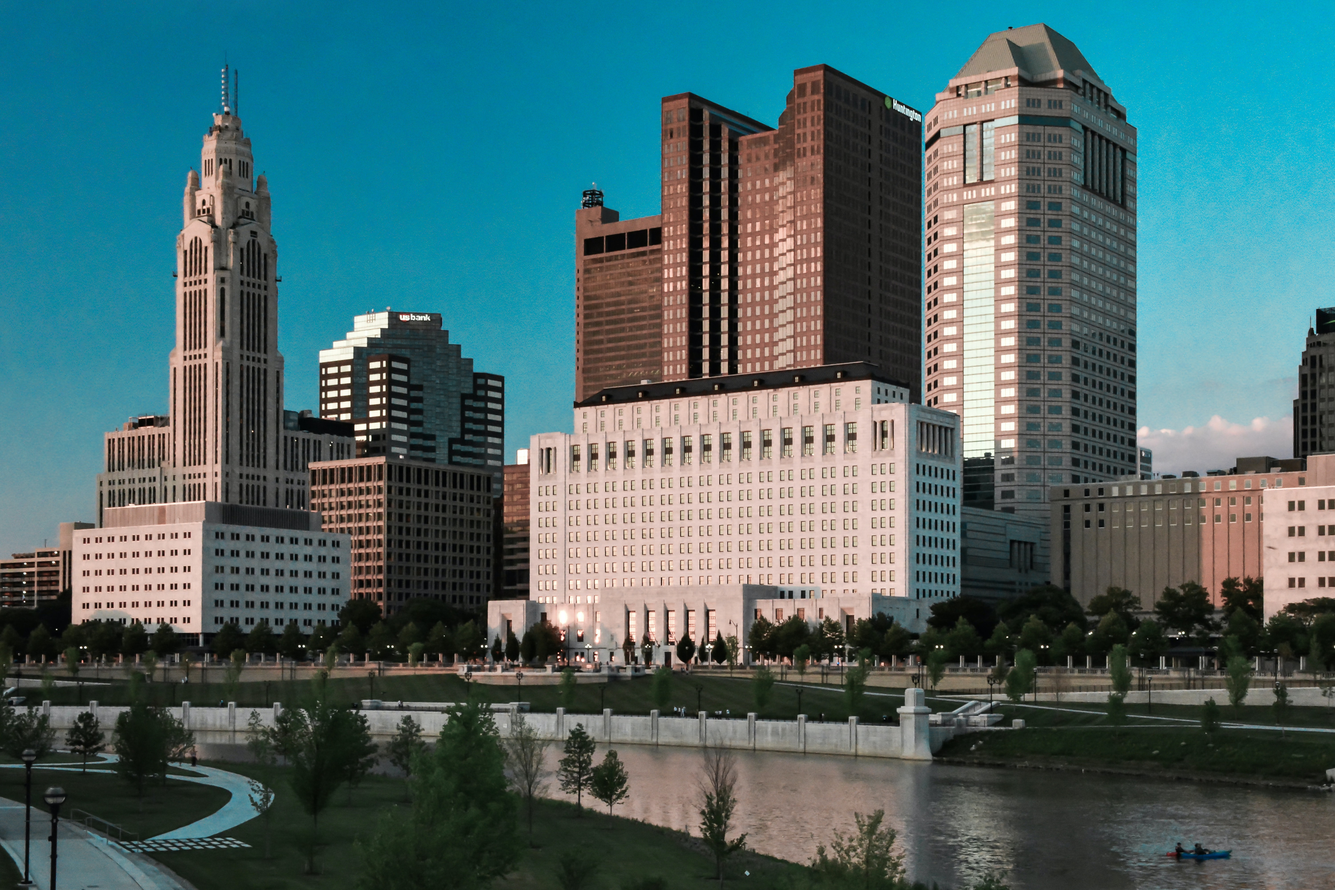
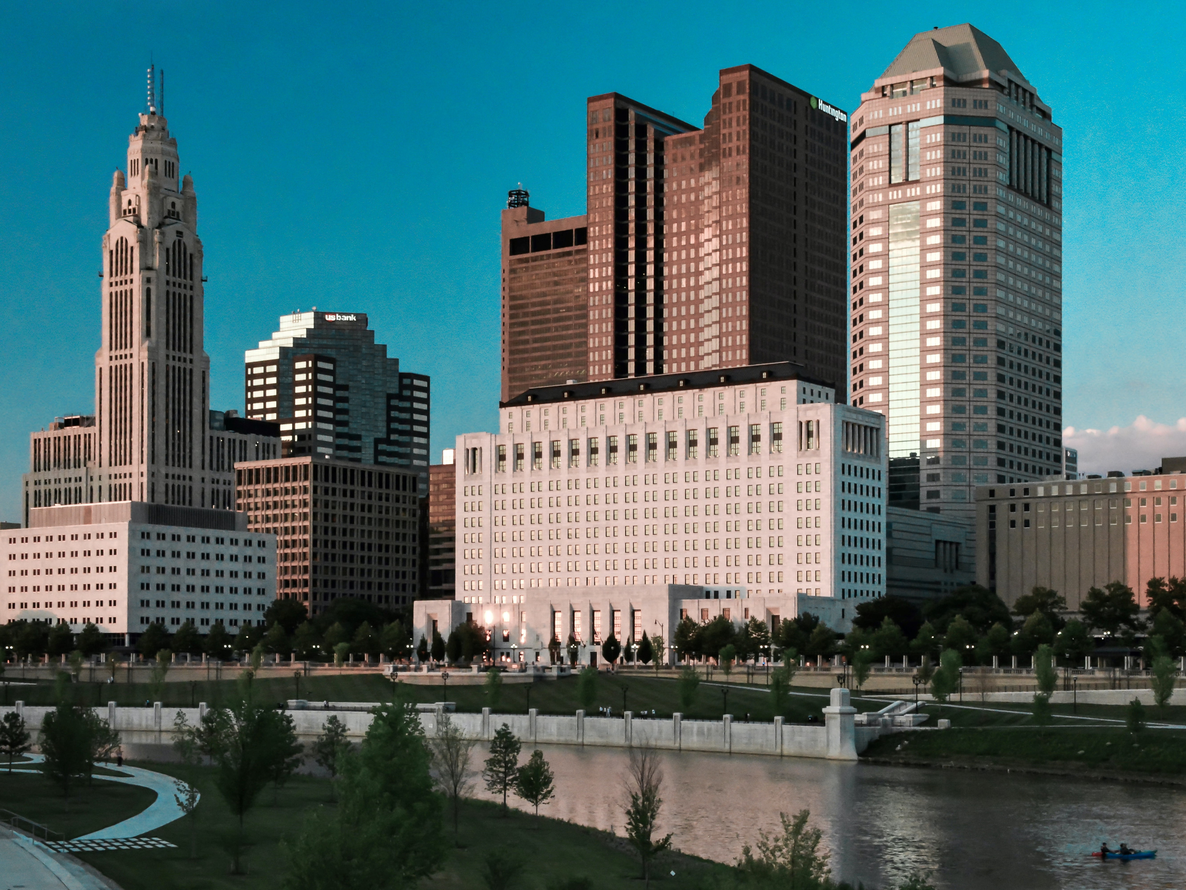
Added cities and changed styling

diff --git a/src/main/resources/templates/SubHash.html b/src/main/resources/templates/SubHash.html
@@ -5,21 +5,28 @@
     <meta name="viewport" content="width=device-width, initial-scale=1.0">
     <meta http-equiv="X-UA-Compatible" content="ie=edge">
     <link rel="stylesheet" href="/css/nav.css">
-    <link rel="stylesheet" href="/src/main/resources/templates/css/hashtagLayout.css">
-    <link rel="stylesheet" href="/src/main/resources/templates/css/hashtagStyle.css">
+    <link rel="stylesheet" href="/css/subHashStyle.css">
    
     <title>SubHash</title>
 </head>
 
 
-<body>
+    <body>
 
-<div th:insert = "fragments/header-footer:: header"></div>
+    <div th:insert = "fragments/header-footer:: header"></div>
 
-    <h1 th:text = "${SubHashPage.name}"></h1>
-    <h3 th:text = "${SubHashPage.description}"></h3>
-    <ul>
-        <li th:each = "cityReview: ${SubHashPage.cityReviews}"><a th:href = "'/CityReview/' + ${cityReview.id}" th:text = "${cityReview.name}"></a></li>
-    </ul>
-<div th:insert ="fragments/header-footer:: footer"></div>
-</body>
+        <h1 th:text = "${SubHashPage.name}" id="subHashTitle"></h1>
+        <h3 id="subHashDescription" th:text = "${SubHashPage.description}"></h3>
+        <div id="mainBody">
+            <ul id="cardGrid">
+                <li class="card" th:each = "cityReview: ${SubHashPage.cityReviews}"><a th:href = "'/CityReview/' + ${cityReview.id}" id="cardLinks">
+                    <div class="container">
+                        <h3 class="cardTitle" th:text = "${cityReview.name}"></h3>
+                        <img th:src="${cityReview.imgUrl}" class="image">
+                    </div></a>
+                </li>
+         </ul>
+        </div>
+    <div th:insert ="fragments/header-footer:: footer"></div>
+    </body>
+</html>

diff --git a/src/main/resources/templates/SubRegion.html b/src/main/resources/templates/SubRegion.html
@@ -6,16 +6,23 @@
         <meta name="viewport" content="width=device-width, initial-scale=1.0">
         <meta http-equiv="X-UA-Compatible" content="ie=edge">
         <link rel="stylesheet" href="/css/nav.css">
-        <title>West</title>
+        <link rel="stylesheet" href="/css/subRegionStyle.css">
+        <title>SubRegion</title>
 </head>
     <body>
     <div th:insert = "fragments/header-footer:: header"></div>
 
-        <h1 th:text="${SubRegion.regionName}"></h1>
-        <h2 th:text="${SubRegion.regionDescription}"></h2>
-        <div>
-            <ul>
-                <li  th:each = "cityReview: ${SubRegion.cityReviews}"><a th:href = "'/CityReview/' + ${cityReview.id}" th:text = "${cityReview.name}"></a></li>
+        <h1 th:text="${SubRegion.regionName}" id="subRegionsTitle"></h1>
+        <h2 th:text="${SubRegion.regionDescription}" id="subRegionDescription"></h2>
+
+        <div id="mainBody">
+            <ul id="cardGrid">
+                <li class="card" th:each = "cityReview: ${SubRegion.cityReviews}"><a th:href = "'/CityReview/' + ${cityReview.id}"  id="cardLinks">
+                    <div class="container">
+                        <h3 class="cardTitle" th:text = "${cityReview.name}"></h3>
+                        <img th:src="${cityReview.imgUrl}" class="image">
+                    </div></a>
+                </li>
             </ul>
         </div>
     <div th:insert ="fragments/header-footer:: footer"></div>

diff --git a/src/main/resources/static/css/subHashStyle.css b/src/main/resources/static/css/subHashStyle.css
@@ -1,0 +1,73 @@
+body{
+    background-color: #D1F0B1;
+}
+
+#subHashTitle{
+    display: flex;
+    justify-content: center;
+}
+
+#subHashDescription{
+    display: flex;
+    justify-content: center;
+    padding-bottom: 1rem;
+}
+
+#mainBody{
+    margin: 0 auto;
+    display: grid;
+    justify-content: space-around;
+    padding-left: 5rem;
+    padding-right: 5rem;
+    width: fit-content;
+    padding-bottom: 6rem;
+}
+
+#select{
+    display: flex;
+    justify-content: center;
+}
+
+#cardGrid{
+    list-style: none;
+    display: grid;
+    grid-template-columns: 50% 50%;
+    grid-gap: 1.5rem;
+    align-items: center;
+    justify-items: center;
+}
+
+.container {
+    padding: 2px 16px;
+}
+
+
+.cardTitle{
+    display: flex;
+    justify-content: center;
+    font-family: 'Caveat', cursive;
+    font-size: xx-large;
+    font-weight: bolder;
+}
+.image{
+    width: 25rem;
+    height: auto;
+    border-radius: 10px;
+}
+
+.card {
+    background-color: #C05746;
+    width: fit-content;
+    box-shadow: 0 4px 8px 0 rgba(0,0,0,0.8);
+    transition: 0.3s;
+    border-radius: 10px;
+}
+
+.card:hover {
+    box-shadow: 0 8px 16px 0 rgba(0,0,0,0.2);
+}
+
+#cardLinks{
+    text-decoration: none;
+    color: black;
+}

diff --git a/src/main/resources/static/css/subRegionStyle.css b/src/main/resources/static/css/subRegionStyle.css
@@ -1,0 +1,71 @@
+#subRegionsTitle{
+    display: flex;
+    justify-content: center;
+    font-family: 'Caveat', cursive;
+    font-size: 4rem;
+}
+
+#subRegionDescription{
+    display: flex;
+    justify-content: center;
+}
+
+body{
+    background-color: #D1F0B1;
+
+}
+
+#mainBody{
+    display: flex;
+    margin: 0 auto;
+    padding-left: 5rem;
+    padding-right: 5rem;
+    width: fit-content;
+    margin-bottom: 6rem;
+}
+
+#cardGrid{
+    list-style: none;
+    display: grid;
+    grid-template-columns: 50% 50%;
+    grid-gap: 1.5rem;
+    align-items: center;
+    justify-items: center;
+}
+
+.container {
+    padding: 2px 16px;
+}
+
+
+.cardTitle{
+    display: flex;
+    justify-content: center;
+    font-family: 'Caveat', cursive;
+    font-size: xx-large;
+    font-weight: bolder;
+    color: black;
+}
+
+#cardLinks{
+    text-decoration: none;
+}
+
+.image{
+    width: 25rem;
+    height: auto;
+    border-radius: 10px;
+}
+
+.card {
+    background-color: #C05746;
+    width: fit-content;
+    box-shadow: 0 4px 8px 0 rgba(0,0,0,0.8);
+    transition: 0.3s;
+    border-radius: 10px;
+}
+
+.card:hover {
+    box-shadow: 0 8px 16px 0 rgba(0,0,0,0.2);
+}
+

diff --git a/src/main/resources/static/css/regionStyle.css b/src/main/resources/static/css/regionStyle.css
@@ -7,7 +7,6 @@
 
 body{
     background-color: #D1F0B1;
-
 }
 
 #mainBody{
@@ -18,6 +17,11 @@ body{
     padding-right: 5rem;
     width: fit-content;
     margin-bottom: 6rem;
+}
+
+#select{
+    display: flex;
+    justify-content: center;
 }
 
 #cardGrid{
@@ -41,7 +45,6 @@ body{
     font-family: 'Caveat', cursive;
     font-size: xx-large;
     font-weight: bolder;
-    padding-left: 40%;
 }
 .image{
     width: 25rem;
@@ -61,29 +64,8 @@ body{
     box-shadow: 0 8px 16px 0 rgba(0,0,0,0.2);
 }
 
-
-/* #card1{
-    grid-column: 1;
-    grid-row: 1;
+#cardLinks{
+    text-decoration: none;
+    color: black;
 }
 
-#card2{
-    grid-column: 2;
-    grid-row: 1;
-}
-
-#card3{
-    grid-row: 2;
-    grid-column: 1;
-}
-
-#mainBody{
-    margin: 0 auto;
-    display: grid;
-    justify-content: space-around;
-    background-color: #D1F0B1;
-    padding-left: 5rem;
-    padding-right: 5rem;
-    width: fit-content;
-    margin-bottom: 6rem;
-}

diff --git a/src/main/resources/templates/Hashtags.html b/src/main/resources/templates/Hashtags.html
@@ -17,7 +17,7 @@
     <div id="mainBody">
         <ul id="cardGrid">
             <li class="card" th:each = "hashtag: ${Hashtags}">
-                <a  th:href = "'/SubHashPage/' + ${hashtag.id}">
+                <a  th:href = "'/SubHashPage/' + ${hashtag.id}" id="cardLinks">
                         <div class="container">
                             <h3 class="cardTitle" th:text = "${hashtag.name}"></h3>
                             <img th:src="${hashtag.imgUrl}" class="image">

diff --git a/src/main/resources/templates/Regions.html b/src/main/resources/templates/Regions.html
@@ -1,4 +1,4 @@
-<!DOCTYPE html >
+ <!DOCTYPE html >
 <html lang="en" xmlns="http://www.w3.org/1999/xhtml"
 xmlns:th="http://www.thymeleaf.org">
     <head>
@@ -31,7 +31,6 @@ xmlns:th="http://www.thymeleaf.org">
                         <img th:src="${Region.imgUrl}" class="image" >
                     </div></a>
                 </li>
-
             </ul>
         </div>
     </div>

diff --git a/src/main/resources/static/css/hashPageStyle.css b/src/main/resources/static/css/hashPageStyle.css
@@ -17,7 +17,6 @@ body{
     list-style: none;
     display: grid;
     grid-template-columns: 50% 50%;
-    grid-template-rows: 50% 50%;
     grid-gap: 1.5rem;
     align-items: center;
     justify-items: center;

diff --git a/src/main/resources/static/css/nav.css b/src/main/resources/static/css/nav.css
@@ -64,10 +64,6 @@ header {
     text-decoration: none;
 }
 
-h2 {
-    padding: 2rem;
-}
-
 #contact {
     font-family: 'Caveat', cursive;
 }

diff --git a/src/main/java/org/wecancodeit/reviews/Populator.java b/src/main/java/org/wecancodeit/reviews/Populator.java
@@ -24,38 +24,63 @@ public class Populator implements CommandLineRunner {
 
     @Override
     public void run(String... args) throws Exception {
-        Region midwest = new Region("Midwest", "no longer mad", "/img/midwest.jpg");
+        Region midwest = new Region("Midwest", "The Heartland of America", "/img/midwest.jpg");
         regionRepo.save(midwest);
 
-        Region west = new Region("West", "West coast best coast", "/img/West.jpg");
+        Region west = new Region("West", "The New Frontier!", "/img/West.jpg");
         regionRepo.save(west);
 
-        Region east = new Region("NorthEast", "East coast beast coast", "/img/NewEngland.jpg");
+        Region east = new Region("NorthEast", "Birthplace of America", "/img/NewEngland.jpg");
         regionRepo.save(east);
 
-        Region south = new Region("South", "the south will rise", "/img/South.jpg");
+        Region south = new Region("The South", "Bless Your Heart!", "/img/South.jpg");
         regionRepo.save(south);
 
-        HashPage nightLife = new HashPage("Night Life", "lorem ipsum", "/img/nightlife.jpg");
+        HashPage nightLife = new HashPage("Night Life", "Party 'til the sun comes up in America's hottest nightlife hubs!", "/img/nightlife.jpg");
         hashRepo.save(nightLife);
 
-        HashPage musicCulture = new HashPage("Music Culture", "", "/img/music.jpg");
+        HashPage musicCulture = new HashPage("Music Culture", "Explore the musical roots of America!", "/img/music.jpg");
         hashRepo.save(musicCulture);
 
-        HashPage historicAttractions = new HashPage("Historic Attractions", "Different attractions to visit", "/img/history.jpg");
+        HashPage historicAttractions = new HashPage("Historic Attractions", "Explore the rich culture of America's most storied cities!", "/img/history.jpg");
         hashRepo.save(historicAttractions);
 
-        HashPage foodCulture = new HashPage("Food Culture", "", "/img/restaurant.jpg");
+        HashPage foodCulture = new HashPage("Food Culture", "Enjoy the finest cuisine America has to offer!", "/img/restaurant.jpg");
         hashRepo.save(foodCulture);
 
-        CityReview cityReview1 = new CityReview("Portland", "City of Roses", 600000l, "PortlandReview", "/img/portland1.jpg", west, nightLife);
-        CityReview cityReview2 = new CityReview("Seattle", "Emerald City", 7370000l, "", "/img/seattle.jpg", west, historicAttractions);
-        CityReview cityReview3 = new CityReview("Columbus", "Buckeye City", 850000l, "", "", midwest, historicAttractions);
-        CityReview cityReview4 = new CityReview("Washington D.C.", "Capital City", 500000l, "", "", east, historicAttractions, musicCulture);
+        CityReview cityReview1 = new CityReview("Portland, OR", "City of Roses", 645291l, "PortlandReview", "/img/portland1.jpg", west, foodCulture, musicCulture);
+        CityReview cityReview2 = new CityReview("Seattle, WA", "Emerald City", 7370000l, "", "/img/seattle.jpg", west, historicAttractions, musicCulture);
+        CityReview cityReview3 = new CityReview("Columbus, OH", "Buckeye City", 878553l, "", "/img/Columbus.jpg", midwest, foodCulture);
+        CityReview cityReview4 = new CityReview("Washington D.C.", "Capital City", 500000l, "", "/img/WashingtonD_C.jpg", east, historicAttractions, musicCulture);
+        CityReview cityReview5 = new CityReview("Los Angeles, CA", "City of Angels", 3900000l, "lorem", "/img/LosAngeles.jpg", west, nightLife, musicCulture, foodCulture);
+        CityReview cityReview6 = new CityReview("Salt Lake City, UT", "The Crossroads of the West", 201249l, "lorem", "/img/SLC.jpg",west, nightLife, foodCulture, historicAttractions);
+        CityReview cityReview7 = new CityReview("Atlanta, GA", "The Big Peach", 488800l, "lorem", "/img/ATL.jpg", south, musicCulture, foodCulture, nightLife, historicAttractions);
+        CityReview cityReview8 = new CityReview("Nashville, TN", "Music City", 692587l, "lorem", "/img/Nashville.jpg",south, musicCulture, historicAttractions, nightLife);
+        CityReview cityReview9 = new CityReview("New Orleans, LA", "The Big Easy", 390845l, "", "/img/NOLA.jpg", south, musicCulture, foodCulture, historicAttractions, nightLife);
+        CityReview cityReview10 = new CityReview("Savannah, GA", "Hostess City of the South", 145403l, "", "/img/savannah.jpg", south, historicAttractions, musicCulture);
+        CityReview cityReview11 = new CityReview("Miami, FL", "The Magic City", 442241l, "", "/img/miami.jpg", south, musicCulture, nightLife);
+        CityReview cityReview12 = new CityReview("Mobile, AL", "The Azalea City", 190432l, "", "/img/Mobile.jpg", south, historicAttractions, foodCulture);
+        CityReview cityReview13 = new CityReview("Boston, MA", "Beantown", 684379l, "", "/img/Boston.jpg", east, historicAttractions, musicCulture, nightLife);
+        CityReview cityReview14 = new CityReview("Charleston, WV", "Charlie West", 48006l, "", "/img/Charleston.jpg", east, historicAttractions, foodCulture);
+        CityReview cityReview15 = new CityReview("New York, NY", "The City that Never Sleeps", 8419000l, "", "/img/NYC.jpg", east, historicAttractions, foodCulture, nightLife, musicCulture);
+        CityReview cityReview16 = new CityReview("Burlington, VT", "The Queen City", 42545l, "","/img/Burlington.jpg", east, foodCulture, musicCulture);
+        CityReview cityReview17 = new CityReview("Philadelphia, PA", "City of Brotherly Love", 1579000l, "", "/img/philly.png", east, musicCulture, historicAttractions, nightLife);
         cityRepo.save(cityReview1);
         cityRepo.save(cityReview2);
         cityRepo.save(cityReview3);
         cityRepo.save(cityReview4);
+        cityRepo.save(cityReview5);
+        cityRepo.save(cityReview6);
+        cityRepo.save(cityReview7);
+        cityRepo.save(cityReview8);
+        cityRepo.save(cityReview9);
+        cityRepo.save(cityReview10);
+        cityRepo.save(cityReview11);
+        cityRepo.save(cityReview12);
+        cityRepo.save(cityReview13);
+        cityRepo.save(cityReview14);
+        cityRepo.save(cityReview15);
+        cityRepo.save(cityReview16);
+        cityRepo.save(cityReview17);
     }
-
 }
